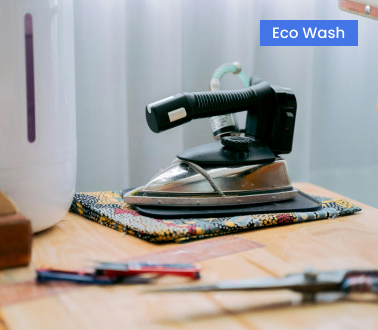
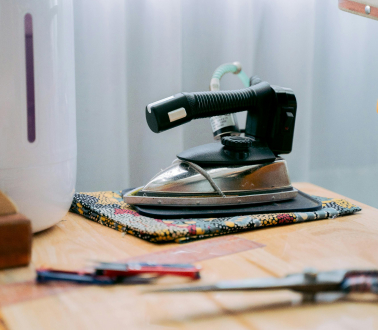
add sticker on blog serction

Changed region(s): [[0.6693, 0.0606, 0.9603, 0.1515]]

diff --git a/index.html b/index.html
@@ -342,6 +342,154 @@
   </div>
   </div>
   </div>
+  <!-- our team area -->
+  <div class="team-area">
+    <div class="container">
+      <div class="team-wrapper">
+        <div class="section-heading">
+          <div class="section-title">
+            <span></span>
+            <p>Meet Cleaning Expert!</p>
+          </div>
+          <h2>Meet The Professional Behind <br>Our Clean Services!</h2>
+        </div>
+        <div class="team-members">
+          <div class="single-member">
+            <div class="member-image member-1"></div>
+            <div class="member-details">
+              <div class="member-data"> 
+                <h5>Cecil Hipplington</h5>
+                <p>Ceo & Owner</p>
+              </div>
+              <div class="member-social">
+                <svg xmlns="http://www.w3.org/2000/svg" width="52" height="52" viewBox="0 0 52 52" fill="none">
+                  <g filter="url(#filter0_d_101_146)">
+                    <rect x="4" y="2" width="44" height="44" fill="white"/>
+                  </g>
+                  <path d="M30.7803 27.4248C31.2714 27.4365 31.7098 27.5856 32.1035 27.8721L32.2695 28.0039H32.2705C33.0879 28.7024 33.3368 29.8456 32.9111 30.8057L32.8164 30.9951C32.2845 31.9567 31.187 32.4327 30.1533 32.1846L29.9473 32.125L29.7188 32.0371C29.278 31.8437 28.9333 31.5481 28.6787 31.1436L28.5586 30.9326C28.2611 30.3486 28.2038 29.7699 28.4111 29.1475L27.8672 28.9658L27.9346 28.6865L28.3506 28.9004L28.7344 28.4316C29.2605 27.7892 29.8707 27.4491 30.627 27.4258L30.7803 27.4248ZM18.3613 22.9141C19.087 22.0809 20.7013 21.633 22.0137 22.9619L22.251 23.2012L22.3867 23.5889C22.5886 24.1649 22.6313 24.6513 22.46 25.1641L22.2559 25.7754L22.2666 25.7812L22.1699 25.9004C21.0551 27.2642 19.5157 27.0982 18.6494 26.4131L18.4854 26.2695C17.6168 25.4246 17.5085 24.0865 18.21 23.1055L18.3613 22.9141ZM29.8096 15.9209C30.8541 15.5092 32.0215 15.8626 32.666 16.7637L32.7881 16.9512C33.3448 17.8984 33.1714 19.117 32.3984 19.8799L32.2363 20.0264H32.2354C31.4493 20.6714 30.0572 20.9567 28.8213 19.6924L28.5156 19.3789L28.4648 19.1514C28.2705 18.2759 28.3367 17.5782 28.5645 17.0625C28.7588 16.6227 29.0919 16.2655 29.5869 16.0195L29.8096 15.9209Z" stroke="#142137" stroke-width="1.5"/>
+                  <defs>
+                    <filter id="filter0_d_101_146" x="0" y="0" width="52" height="52" filterUnits="userSpaceOnUse" color-interpolation-filters="sRGB">
+                      <feFlood flood-opacity="0" result="BackgroundImageFix"/>
+                      <feColorMatrix in="SourceAlpha" type="matrix" values="0 0 0 0 0 0 0 0 0 0 0 0 0 0 0 0 0 0 127 0" result="hardAlpha"/>
+                      <feOffset dy="2"/>
+                      <feGaussianBlur stdDeviation="2"/>
+                      <feComposite in2="hardAlpha" operator="out"/>
+                      <feColorMatrix type="matrix" values="0 0 0 0 0.0784314 0 0 0 0 0.129412 0 0 0 0 0.215686 0 0 0 0.14 0"/>
+                      <feBlend mode="normal" in2="BackgroundImageFix" result="effect1_dropShadow_101_146"/>
+                      <feBlend mode="normal" in="SourceGraphic" in2="effect1_dropShadow_101_146" result="shape"/>
+                    </filter>
+                  </defs>
+                </svg>
+              </div>
+            </div>
+          </div>
+          <div class="single-member">
+            <div class="member-image member-2"></div>
+            <div class="member-details">
+              <div class="member-data"> 
+                <h5>Cecil Hipplington</h5>
+                <p>Ceo & Owner</p>
+              </div>
+              <div class="member-social">
+                <svg xmlns="http://www.w3.org/2000/svg" width="52" height="52" viewBox="0 0 52 52" fill="none">
+                  <g filter="url(#filter0_d_101_146)">
+                    <rect x="4" y="2" width="44" height="44" fill="white"/>
+                  </g>
+                  <path d="M30.7803 27.4248C31.2714 27.4365 31.7098 27.5856 32.1035 27.8721L32.2695 28.0039H32.2705C33.0879 28.7024 33.3368 29.8456 32.9111 30.8057L32.8164 30.9951C32.2845 31.9567 31.187 32.4327 30.1533 32.1846L29.9473 32.125L29.7188 32.0371C29.278 31.8437 28.9333 31.5481 28.6787 31.1436L28.5586 30.9326C28.2611 30.3486 28.2038 29.7699 28.4111 29.1475L27.8672 28.9658L27.9346 28.6865L28.3506 28.9004L28.7344 28.4316C29.2605 27.7892 29.8707 27.4491 30.627 27.4258L30.7803 27.4248ZM18.3613 22.9141C19.087 22.0809 20.7013 21.633 22.0137 22.9619L22.251 23.2012L22.3867 23.5889C22.5886 24.1649 22.6313 24.6513 22.46 25.1641L22.2559 25.7754L22.2666 25.7812L22.1699 25.9004C21.0551 27.2642 19.5157 27.0982 18.6494 26.4131L18.4854 26.2695C17.6168 25.4246 17.5085 24.0865 18.21 23.1055L18.3613 22.9141ZM29.8096 15.9209C30.8541 15.5092 32.0215 15.8626 32.666 16.7637L32.7881 16.9512C33.3448 17.8984 33.1714 19.117 32.3984 19.8799L32.2363 20.0264H32.2354C31.4493 20.6714 30.0572 20.9567 28.8213 19.6924L28.5156 19.3789L28.4648 19.1514C28.2705 18.2759 28.3367 17.5782 28.5645 17.0625C28.7588 16.6227 29.0919 16.2655 29.5869 16.0195L29.8096 15.9209Z" stroke="#142137" stroke-width="1.5"/>
+                  <defs>
+                    <filter id="filter0_d_101_146" x="0" y="0" width="52" height="52" filterUnits="userSpaceOnUse" color-interpolation-filters="sRGB">
+                      <feFlood flood-opacity="0" result="BackgroundImageFix"/>
+                      <feColorMatrix in="SourceAlpha" type="matrix" values="0 0 0 0 0 0 0 0 0 0 0 0 0 0 0 0 0 0 127 0" result="hardAlpha"/>
+                      <feOffset dy="2"/>
+                      <feGaussianBlur stdDeviation="2"/>
+                      <feComposite in2="hardAlpha" operator="out"/>
+                      <feColorMatrix type="matrix" values="0 0 0 0 0.0784314 0 0 0 0 0.129412 0 0 0 0 0.215686 0 0 0 0.14 0"/>
+                      <feBlend mode="normal" in2="BackgroundImageFix" result="effect1_dropShadow_101_146"/>
+                      <feBlend mode="normal" in="SourceGraphic" in2="effect1_dropShadow_101_146" result="shape"/>
+                    </filter>
+                  </defs>
+                </svg>
+              </div>
+            </div>
+          </div>
+          <div class="single-member">
+            <div class="member-image member-3"></div>
+            <div class="member-details">
+              <div class="member-data"> 
+                <h5>Cecil Hipplington</h5>
+                <p>Ceo & Owner</p>
+              </div>
+              <div class="member-social">
+                <svg xmlns="http://www.w3.org/2000/svg" width="52" height="52" viewBox="0 0 52 52" fill="none">
+                  <g filter="url(#filter0_d_101_146)">
+                    <rect x="4" y="2" width="44" height="44" fill="white"/>
+                  </g>
+                  <path d="M30.7803 27.4248C31.2714 27.4365 31.7098 27.5856 32.1035 27.8721L32.2695 28.0039H32.2705C33.0879 28.7024 33.3368 29.8456 32.9111 30.8057L32.8164 30.9951C32.2845 31.9567 31.187 32.4327 30.1533 32.1846L29.9473 32.125L29.7188 32.0371C29.278 31.8437 28.9333 31.5481 28.6787 31.1436L28.5586 30.9326C28.2611 30.3486 28.2038 29.7699 28.4111 29.1475L27.8672 28.9658L27.9346 28.6865L28.3506 28.9004L28.7344 28.4316C29.2605 27.7892 29.8707 27.4491 30.627 27.4258L30.7803 27.4248ZM18.3613 22.9141C19.087 22.0809 20.7013 21.633 22.0137 22.9619L22.251 23.2012L22.3867 23.5889C22.5886 24.1649 22.6313 24.6513 22.46 25.1641L22.2559 25.7754L22.2666 25.7812L22.1699 25.9004C21.0551 27.2642 19.5157 27.0982 18.6494 26.4131L18.4854 26.2695C17.6168 25.4246 17.5085 24.0865 18.21 23.1055L18.3613 22.9141ZM29.8096 15.9209C30.8541 15.5092 32.0215 15.8626 32.666 16.7637L32.7881 16.9512C33.3448 17.8984 33.1714 19.117 32.3984 19.8799L32.2363 20.0264H32.2354C31.4493 20.6714 30.0572 20.9567 28.8213 19.6924L28.5156 19.3789L28.4648 19.1514C28.2705 18.2759 28.3367 17.5782 28.5645 17.0625C28.7588 16.6227 29.0919 16.2655 29.5869 16.0195L29.8096 15.9209Z" stroke="#142137" stroke-width="1.5"/>
+                  <defs>
+                    <filter id="filter0_d_101_146" x="0" y="0" width="52" height="52" filterUnits="userSpaceOnUse" color-interpolation-filters="sRGB">
+                      <feFlood flood-opacity="0" result="BackgroundImageFix"/>
+                      <feColorMatrix in="SourceAlpha" type="matrix" values="0 0 0 0 0 0 0 0 0 0 0 0 0 0 0 0 0 0 127 0" result="hardAlpha"/>
+                      <feOffset dy="2"/>
+                      <feGaussianBlur stdDeviation="2"/>
+                      <feComposite in2="hardAlpha" operator="out"/>
+                      <feColorMatrix type="matrix" values="0 0 0 0 0.0784314 0 0 0 0 0.129412 0 0 0 0 0.215686 0 0 0 0.14 0"/>
+                      <feBlend mode="normal" in2="BackgroundImageFix" result="effect1_dropShadow_101_146"/>
+                      <feBlend mode="normal" in="SourceGraphic" in2="effect1_dropShadow_101_146" result="shape"/>
+                    </filter>
+                  </defs>
+                </svg>
+              </div>
+            </div>
+          </div>
+          <div class="single-member">
+            <div class="member-image member-4"></div>
+            <div class="member-details">
+              <div class="member-data"> 
+                <h5>Cecil Hipplington</h5>
+                <p>Ceo & Owner</p>
+              </div>
+              <div class="member-social">
+                <svg xmlns="http://www.w3.org/2000/svg" width="52" height="52" viewBox="0 0 52 52" fill="none">
+                  <g filter="url(#filter0_d_101_146)">
+                    <rect x="4" y="2" width="44" height="44" fill="white"/>
+                  </g>
+                  <path d="M30.7803 27.4248C31.2714 27.4365 31.7098 27.5856 32.1035 27.8721L32.2695 28.0039H32.2705C33.0879 28.7024 33.3368 29.8456 32.9111 30.8057L32.8164 30.9951C32.2845 31.9567 31.187 32.4327 30.1533 32.1846L29.9473 32.125L29.7188 32.0371C29.278 31.8437 28.9333 31.5481 28.6787 31.1436L28.5586 30.9326C28.2611 30.3486 28.2038 29.7699 28.4111 29.1475L27.8672 28.9658L27.9346 28.6865L28.3506 28.9004L28.7344 28.4316C29.2605 27.7892 29.8707 27.4491 30.627 27.4258L30.7803 27.4248ZM18.3613 22.9141C19.087 22.0809 20.7013 21.633 22.0137 22.9619L22.251 23.2012L22.3867 23.5889C22.5886 24.1649 22.6313 24.6513 22.46 25.1641L22.2559 25.7754L22.2666 25.7812L22.1699 25.9004C21.0551 27.2642 19.5157 27.0982 18.6494 26.4131L18.4854 26.2695C17.6168 25.4246 17.5085 24.0865 18.21 23.1055L18.3613 22.9141ZM29.8096 15.9209C30.8541 15.5092 32.0215 15.8626 32.666 16.7637L32.7881 16.9512C33.3448 17.8984 33.1714 19.117 32.3984 19.8799L32.2363 20.0264H32.2354C31.4493 20.6714 30.0572 20.9567 28.8213 19.6924L28.5156 19.3789L28.4648 19.1514C28.2705 18.2759 28.3367 17.5782 28.5645 17.0625C28.7588 16.6227 29.0919 16.2655 29.5869 16.0195L29.8096 15.9209Z" stroke="#142137" stroke-width="1.5"/>
+                  <defs>
+                    <filter id="filter0_d_101_146" x="0" y="0" width="52" height="52" filterUnits="userSpaceOnUse" color-interpolation-filters="sRGB">
+                      <feFlood flood-opacity="0" result="BackgroundImageFix"/>
+                      <feColorMatrix in="SourceAlpha" type="matrix" values="0 0 0 0 0 0 0 0 0 0 0 0 0 0 0 0 0 0 127 0" result="hardAlpha"/>
+                      <feOffset dy="2"/>
+                      <feGaussianBlur stdDeviation="2"/>
+                      <feComposite in2="hardAlpha" operator="out"/>
+                      <feColorMatrix type="matrix" values="0 0 0 0 0.0784314 0 0 0 0 0.129412 0 0 0 0 0.215686 0 0 0 0.14 0"/>
+                      <feBlend mode="normal" in2="BackgroundImageFix" result="effect1_dropShadow_101_146"/>
+                      <feBlend mode="normal" in="SourceGraphic" in2="effect1_dropShadow_101_146" result="shape"/>
+                    </filter>
+                  </defs>
+                </svg>
+              </div>
+            </div>
+          </div>
+        </div>
+      </div>
+    </div>
+  </div>
+  <!-- how it's work -->
+  <div class="how-it-work-area">
+    <div class="container">
+      <div class="work-wrapper">
+        <div class="work-header">
+          <div class="section-title">
+            <span></span>
+            <p>How It Works</p>
+          </div>
+          <h2>Take back your time. Leave the <br>
+            Laundry to us.</h2>
+        </div>
+        <p>The cleaning process was once performed at central factories where high street cleaners collected garments from their customers.</p>
+      </div>
+    </div>
+  </div>
   <!-- Testimonial area -->
   <div class="testimonial-area">
     <div class="container">
@@ -377,7 +525,9 @@
       </div>
       <div class="blog-wrapper">
         <div class="single-blog">
-          <div class="blog-bg blog-image-1"></div>
+          <div class="blog-bg blog-image-1">
+            <span class="sticker">Eco Wash</span>
+          </div>
           <div class="meta-data">
             <div class="date">
               <svg xmlns="http://www.w3.org/2000/svg" width="18" height="18" viewBox="0 0 18 18" fill="none">
@@ -399,7 +549,9 @@
 
         </div>
         <div class="single-blog">
-          <div class=" blog-bg blog-image-2"></div>
+          <div class=" blog-bg blog-image-2">
+            <span class="sticker">Eco Wash</span>
+          </div>
           <div class="meta-data">
             <div class="date">
               <svg xmlns="http://www.w3.org/2000/svg" width="18" height="18" viewBox="0 0 18 18" fill="none">
@@ -421,7 +573,9 @@
 
         </div>
         <div class="single-blog">
-          <div class="blog-bg blog-image-3"></div>
+          <div class="blog-bg blog-image-3">
+            <span class="sticker">Eco Wash</span>
+          </div>
           <div class="meta-data">
             <div class="date">
               <svg xmlns="http://www.w3.org/2000/svg" width="18" height="18" viewBox="0 0 18 18" fill="none">
@@ -443,7 +597,9 @@
 
         </div>
         <div class="single-blog">
-          <div class="blog-bg blog-image-4"></div>
+          <div class="blog-bg blog-image-4">
+            <span class="sticker">Eco Wash</span>
+          </div>
           <div class="meta-data">
             <div class="date">
               <svg xmlns="http://www.w3.org/2000/svg" width="18" height="18" viewBox="0 0 18 18" fill="none">

diff --git a/style.css b/style.css
@@ -496,6 +496,75 @@ body{
     display: flex;
     justify-content: space-between;
 }
+/* team area */
+.team-wrapper .section-heading{
+    margin-bottom: 72px;
+}
+.team-wrapper .section-title{
+    background-color: #fff;
+    border: 1px solid #14213724;
+}
+.team-area{
+    margin-bottom: 150px;
+    padding: ;
+}
+.team-members{
+    display: flex;
+    justify-content: space-between;
+    align-items: center;
+}
+.member-image{
+    width: 390px;
+    height: 450px;
+    background-position: center;
+    background-size: cover;
+    background-repeat: no-repeat;
+}
+.member-1{
+    background-image:url(./assets/img/member-1.jpg) ;
+}
+.member-2{
+    background-image:url(./assets/img/member-2.jpg) ;
+}
+.member-3{
+    background-image:url(./assets/img/member-3.jpg) ;
+}
+.member-4{
+    background-image:url(./assets/img/member-4.jpg) ;
+}
+.member-details{
+    display: flex;
+    justify-content: space-between;
+    align-items: center;
+    background-color: #ECF2FE;
+    max-width: 413px;
+    padding: 29px;
+}
+.member-data h5{
+    font-size: 18px;
+    font-weight: 600;
+    color: #142137;
+}
+.member-data p{
+    font-size: 15px;
+    font-weight: 500;
+    line-height: 26px;
+    color: #142137B2;
+}
+
+/* how it's work area */
+.work-wrapper{
+    display: flex;
+    justify-content: space-between;
+    align-items: flex-end;
+}
+.work-wrapper p{
+    max-width: 451px;
+}
+.work-header{
+    max-width: 50%;
+}
+
 /* testimonial area */
 .testimonial-area{
     background-color: #ECF2FE;
@@ -549,6 +618,19 @@ body{
     width: 350px;
     height: 250px;
     margin-bottom: 23px;
+    position: relative;
+}
+
+.blog-bg span{
+    background-color: #4375e6;
+    color: #fff;
+    line-height: 26px;
+    font-weight: 500;
+    font-size: 15px;
+    padding: 8px 12px;
+    position: absolute;
+    right: 20px;
+    top: 20px;
 }
 
 .blog-image-1{
@@ -589,6 +671,8 @@ body{
 .single-blog{
     max-width: 25%;
 }
+
+
 
 /* copyright  */
 .footer-area{
@@ -690,8 +774,16 @@ margin-bottom: 40px;
     margin-top: 40px;
     max-width: 168px;
 }
+.news-letter ul li a:hover  {
+    background-color: #4375e6;
+}
+.news-letter ul li a i  {
+   color: #FFF;
+}
 .news-letter ul li a{
-    display: block;
+    display: flex;
+    justify-content: center;
+    align-items: center;
     width: 36px;
     height: 36px;
     border: 1px solid #fff;
@@ -699,8 +791,9 @@ margin-bottom: 40px;
     margin: 0 auto;
     border-radius: 50%;
 }
+
 .newsletter-form {
-    border: 1px solid #ddd;
+    border: 1px solid #FFFFFF24;
     padding: 5px 5px 5px 20px;
     background: transparent;
     display: flex;
@@ -711,6 +804,7 @@ margin-bottom: 40px;
     border: none;
     background: transparent;
     color: white;
+    outline: none;
 }
 input[type="submit"] {
     background: #4375E7;
